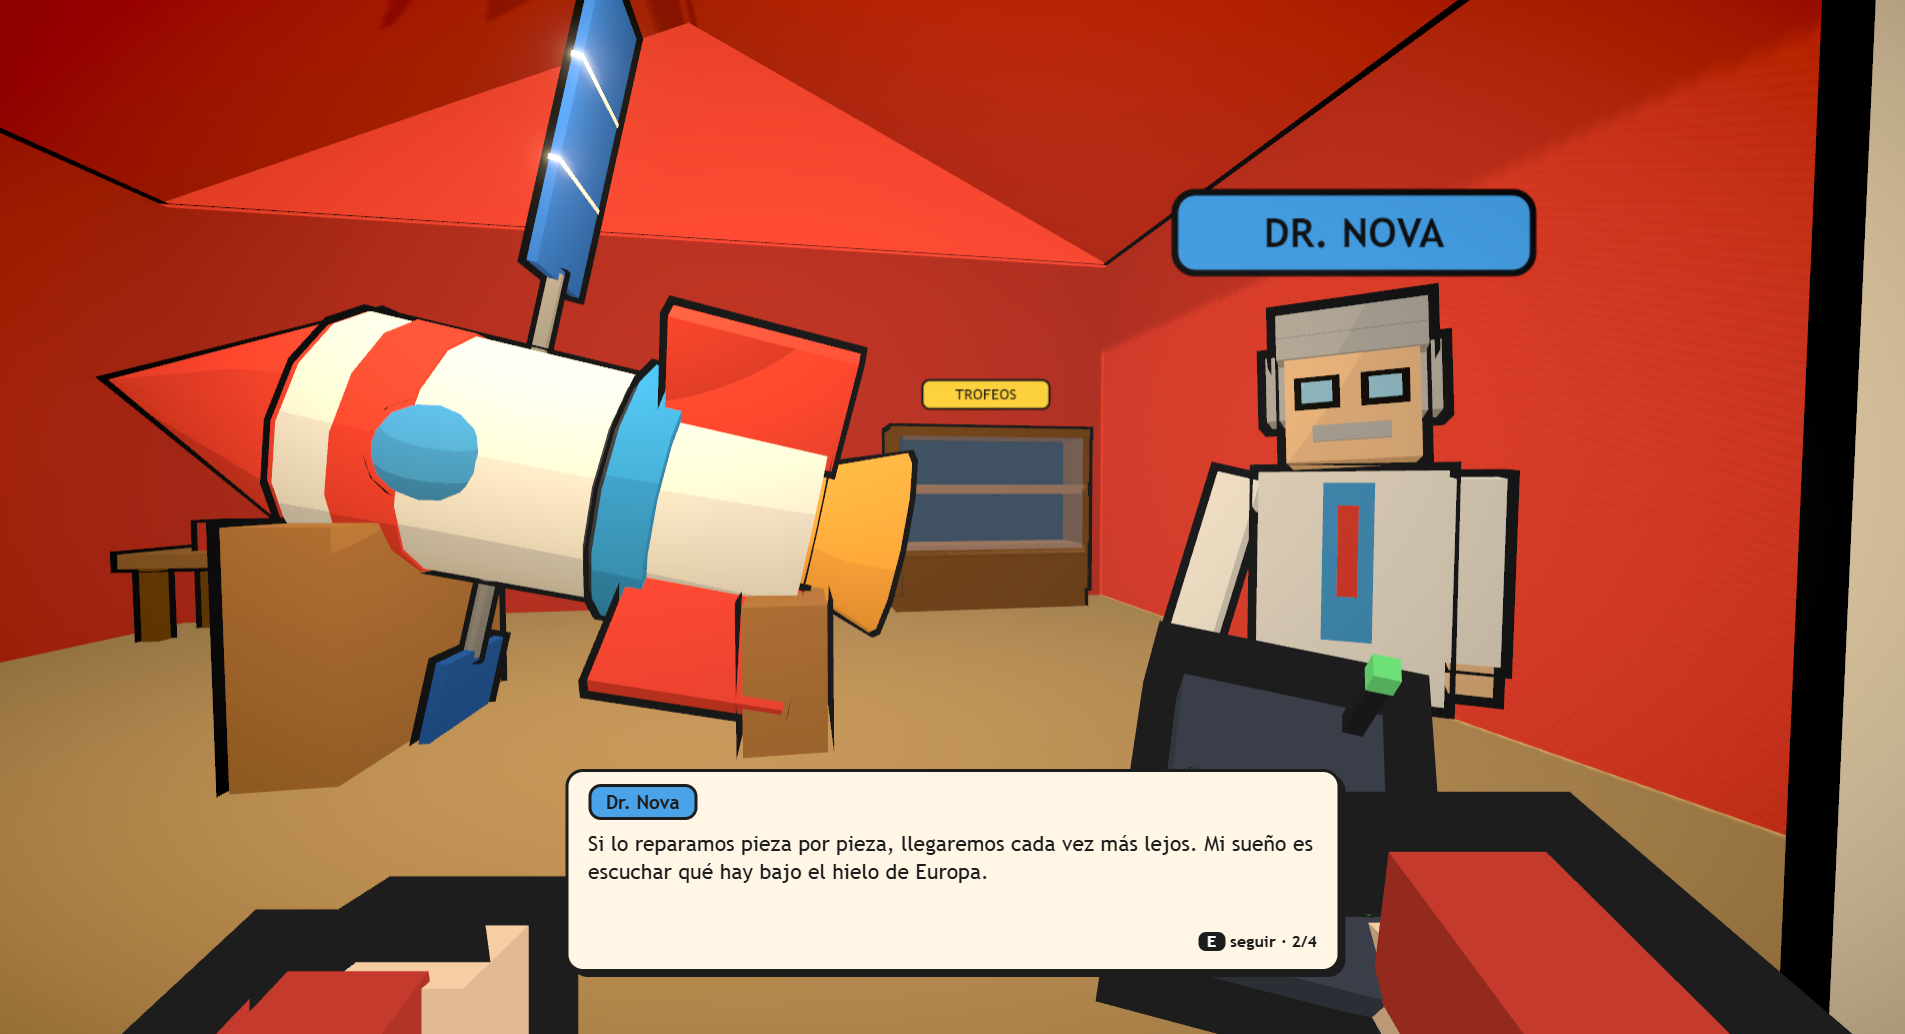
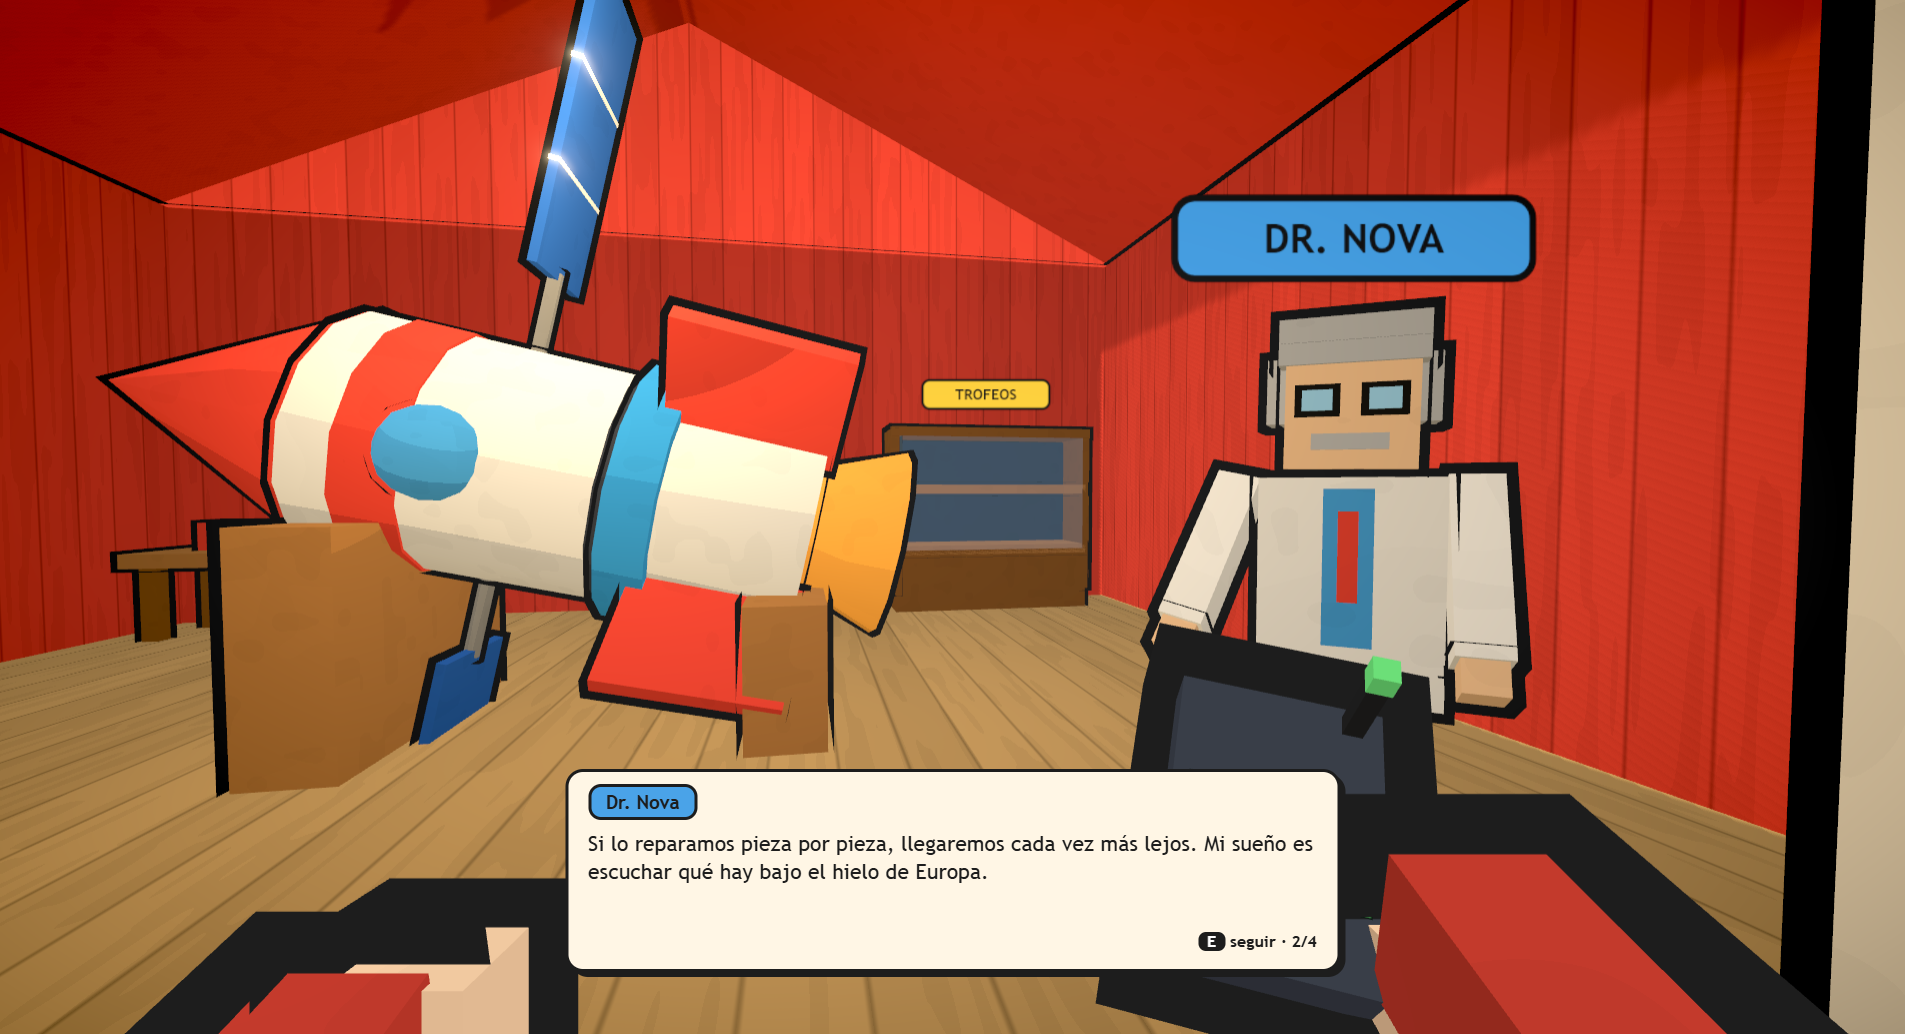
Texturas procedurales en el estilo de la lava
- Textura calculada en la GPU para todos los materiales toon, por bandas:
  general (matices suaves), roca (placas con grietas), suelo de los planetas
  (placas agrietadas y roca en las pendientes), pasto y madera (tablas)
- Placas deformadas como la costra de la lava, no baldosas regulares
- Granero con paredes, frontones y piso de tablas; montañas con roca agrietada

diff --git a/src/estilo.js b/src/estilo.js
@@ -9,8 +9,100 @@ gradiente.needsUpdate = true;
 
 const matContorno = new THREE.MeshBasicMaterial({ color: TINTA, side: THREE.BackSide });
 
-export function toon(color) {
-  return new THREE.MeshToonMaterial({ color, gradientMap: gradiente });
+// ----- Textura procedural, en el mismo estilo que la lava -----
+// Se calcula en la GPU según la posición en el mundo (no hay imágenes): placas con grietas, grano,
+// manchas de tono y todo por bandas, para que encaje con el sombreado toon de 3 tonos.
+// Tipos: general (casi todo), roca, suelo (planetas), pasto (granero), madera.
+const TIPOS = { general: 0, roca: 1, suelo: 2, pasto: 3, madera: 4 };
+const GLSL_TEXTURA = /* glsl */`
+  varying vec3 vPosMundo;
+  varying vec3 vNorMundo;
+  vec2 txH2(vec2 p) { p = vec2(dot(p, vec2(127.1, 311.7)), dot(p, vec2(269.5, 183.3))); return fract(sin(p) * 43758.5453); }
+  float txRuido(vec2 p) {
+    vec2 i = floor(p), f = fract(p), u = f * f * (3.0 - 2.0 * f);
+    return mix(mix(txH2(i).x, txH2(i + vec2(1, 0)).x, u.x), mix(txH2(i + vec2(0, 1)).x, txH2(i + vec2(1, 1)).x, u.x), u.y);
+  }
+  float txFbm(vec2 p) { float v = 0.0, a = 0.5; for (int k = 0; k < 3; k++) { v += a * txRuido(p); p *= 2.07; a *= 0.5; } return v; }
+  // x: distancia al borde de la placa (0 en la grieta) · y: tono propio de cada placa
+  vec2 txPlacas(vec2 p) {
+    vec2 i = floor(p), f = fract(p);
+    float d1 = 8.0, d2 = 8.0, id = 0.0;
+    for (int y = -1; y <= 1; y++) for (int x = -1; x <= 1; x++) {
+      vec2 g = vec2(float(x), float(y)), o = txH2(i + g), r = g + o - f;
+      float d = dot(r, r);
+      if (d < d1) { d2 = d1; d1 = d; id = o.x; } else if (d < d2) d2 = d;
+    }
+    return vec2(sqrt(d2) - sqrt(d1), id);
+  }
+  // Placas deformadas, como la costra de la lava: nada de baldosas regulares
+  vec2 txPlacasW(vec2 p) { return txPlacas(p + (vec2(txFbm(p * 0.45), txFbm(p * 0.45 + 7.3)) - 0.5) * 1.3); }
+  float txBandas(float v, float n) { return floor(v * n + 0.5) / n; }
+  // Roca: placas con grietas oscuras, como la costra de la lava
+  float txRoca(vec2 q, float escala) {
+    vec2 c = txPlacasW(q * escala);
+    float k = 0.84 + 0.26 * txBandas(c.y, 3.0);
+    k *= mix(0.5, 1.0, smoothstep(0.0, 0.08, c.x));
+    k *= 1.0 - 0.14 * step(0.62, txRuido(q * escala * 3.5));
+    return k;
+  }
+  float textura(vec3 p, vec3 n) {
+    vec2 q = abs(n.y) > 0.6 ? p.xz : (abs(n.x) > abs(n.z) ? p.zy : p.xy); // proyección según hacia dónde mira la cara
+    float k = 1.0;
+    #if TX_TIPO == 0
+      k *= 0.97 + 0.05 * txBandas(txFbm(q * 0.9), 3.0);                  // muy suave: solo da algo de vida
+      k *= 1.0 - 0.04 * step(0.72, txRuido(q * 7.0));
+    #elif TX_TIPO == 1
+      k = txRoca(q, 1.6);
+    #elif TX_TIPO == 2
+      vec2 c = txPlacasW(q * 0.42);
+      k *= 0.9 + 0.16 * txBandas(c.y, 3.0);
+      k *= mix(0.68, 1.0, smoothstep(0.0, 0.05, c.x));
+      k *= 1.0 - 0.1 * step(0.64, txRuido(q * 2.6));
+      k *= 0.94 + 0.12 * txBandas(txFbm(q * 0.12), 3.0);
+      k = mix(k, txRoca(q, 0.9), smoothstep(0.82, 0.6, n.y));       // en las pendientes, roca agrietada
+    #elif TX_TIPO == 3
+      k *= 0.92 + 0.15 * txBandas(txFbm(q * 0.22), 4.0);
+      k *= 1.0 - 0.07 * step(0.66, txRuido(q * 3.2));
+      k *= 1.0 + 0.06 * step(0.72, txRuido(q * 2.1 + 7.0));
+      k = mix(k, txRoca(q, 0.7), smoothstep(0.78, 0.55, n.y));      // laderas de roca en las montañas
+    #elif TX_TIPO == 4
+      float tabla = fract(q.x * 2.5);                                   // tablas de unos 40 cm
+      k *= 0.9 + 0.14 * txBandas(txH2(vec2(floor(q.x * 2.5), 3.0)).x, 3.0);
+      k *= mix(0.62, 1.0, smoothstep(0.0, 0.05, tabla) * smoothstep(1.0, 0.95, tabla));
+      k *= 1.0 - 0.08 * step(0.6, txRuido(vec2(q.x * 18.0, q.y * 1.5)));   // vetas
+    #endif
+    return k;
+  }`;
+
+function texturizar(m, tipo) {
+  const n = TIPOS[tipo] ?? 0;
+  m.defines = { ...(m.defines || {}), TX_TIPO: n };
+  m.onBeforeCompile = sh => {
+    sh.vertexShader = "varying vec3 vPosMundo;\nvarying vec3 vNorMundo;\n" + sh.vertexShader.replace("#include <project_vertex>", `#include <project_vertex>
+      vec4 txp = vec4(transformed, 1.0);
+      vec3 txn = objectNormal;
+      #ifdef USE_INSTANCING
+        txp = instanceMatrix * txp;
+        txn = mat3(instanceMatrix) * txn;
+      #endif
+      vPosMundo = (modelMatrix * txp).xyz;
+      vNorMundo = normalize(mat3(modelMatrix) * txn);`);
+    sh.fragmentShader = GLSL_TEXTURA + "\n" + sh.fragmentShader.replace("#include <color_fragment>", `#include <color_fragment>
+      diffuseColor.rgb *= textura(vPosMundo, normalize(vNorMundo));`);
+  };
+  m.customProgramCacheKey = () => "tx" + n;
+  return m;
+}
+
+// tipo: "general" (por defecto), "roca", "suelo", "pasto" o "madera"
+export function toon(color, tipo = "general") {
+  return texturizar(new THREE.MeshToonMaterial({ color, gradientMap: gradiente }), tipo);
+}
+
+// Cambia la textura de una malla (y de sus hijas con material toon), conservando el color
+export function conTextura(obj, tipo) {
+  obj.traverse(o => { if (o.material && o.material.isMeshToonMaterial) o.material = toon(o.material.color.getHex(), tipo); });
+  return obj;
 }
 
 function malla(geo, color, geoContorno) {

diff --git a/src/granero.js b/src/granero.js
@@ -1,6 +1,6 @@
 // Mundo del granero: llanuras, montañas al norte, mesetas al este, un lago y el pueblo.
 import * as THREE from "three";
-import { caja, cilindro, cono, esfera, etiqueta, toon } from "./estilo.js";
+import { caja, cilindro, cono, esfera, etiqueta, toon, conTextura } from "./estilo.js";
 import { crearCohete } from "./cohete.js";
 import { crearCientifico, NOMBRE } from "./cientifico.js";
 import { crearPueblo } from "./pueblo.js";
@@ -67,10 +67,10 @@ export function crearGranero(scene, mejoras) {
   scene.add(sol, sol.target);
 
   // ----- Terreno -----
-  const terreno = crearTerreno({ tam: TAM, seg: 120, altura: alturaBase, color: colorTerreno });
+  const terreno = crearTerreno({ tam: TAM, seg: 120, altura: alturaBase, color: colorTerreno, tipo: "pasto" });
   scene.add(terreno.mesh);
   const altura = terreno.altura;
-  const lejos = new THREE.Mesh(new THREE.CircleGeometry(1800, 24), toon(0x7bc96f)); // suelo hasta el horizonte
+  const lejos = new THREE.Mesh(new THREE.CircleGeometry(1800, 24), toon(0x7bc96f, "pasto")); // suelo hasta el horizonte
   lejos.rotation.x = -Math.PI / 2;
   lejos.position.y = -2.5;
   scene.add(lejos);
@@ -81,13 +81,14 @@ export function crearGranero(scene, mejoras) {
 
   // ----- Granero (12 x 10 m, frente abierto hacia +Z) -----
   const Z0 = -8; // centro del granero
-  poner(caja(12, 0.1, 10, 0xc9a36b, false), 0, 0.05, Z0);          // piso
-  poner(caja(12, 5, 0.3, ROJO), 0, 2.5, Z0 - 5);                    // fondo
-  poner(caja(0.3, 5, 10, ROJO), -6, 2.5, Z0);                       // izquierda
-  poner(caja(0.3, 5, 10, ROJO), 6, 2.5, Z0);                        // derecha
-  poner(caja(3, 5, 0.3, ROJO), -4.5, 2.5, Z0 + 5);                  // frente izq.
-  poner(caja(3, 5, 0.3, ROJO), 4.5, 2.5, Z0 + 5);                   // frente der.
-  poner(caja(6, 1, 0.3, ROJO), 0, 4.5, Z0 + 5);                     // dintel
+  poner(conTextura(caja(12, 0.1, 10, 0xc9a36b, false), "madera"), 0, 0.05, Z0); // piso de tablas
+  const tablas = obj => conTextura(obj, "madera");                  // paredes de tablas de madera
+  poner(tablas(caja(12, 5, 0.3, ROJO)), 0, 2.5, Z0 - 5);            // fondo
+  poner(tablas(caja(0.3, 5, 10, ROJO)), -6, 2.5, Z0);               // izquierda
+  poner(tablas(caja(0.3, 5, 10, ROJO)), 6, 2.5, Z0);                // derecha
+  poner(tablas(caja(3, 5, 0.3, ROJO)), -4.5, 2.5, Z0 + 5);          // frente izq.
+  poner(tablas(caja(3, 5, 0.3, ROJO)), 4.5, 2.5, Z0 + 5);           // frente der.
+  poner(tablas(caja(6, 1, 0.3, ROJO)), 0, 4.5, Z0 + 5);             // dintel
   col(0, Z0 - 5, 12, 0.3); col(-6, Z0, 0.3, 10); col(6, Z0, 0.3, 10);
   col(-4.5, Z0 + 5, 3, 0.3); col(4.5, Z0 + 5, 3, 0.3);
 
@@ -104,7 +105,7 @@ export function crearGranero(scene, mejoras) {
   tri.moveTo(-6, 0); tri.lineTo(6, 0); tri.lineTo(0, 2.85); tri.closePath();
   const geoTri = new THREE.ExtrudeGeometry(tri, { depth: 0.3, bevelEnabled: false });
   [Z0 + 4.85, Z0 - 5.15].forEach(z => {
-    const h = new THREE.Mesh(geoTri, toon(ROJO));
+    const h = new THREE.Mesh(geoTri, toon(ROJO, "madera"));
     h.castShadow = true;
     poner(h, 0, 5, z);
   });

diff --git a/src/superficie.js b/src/superficie.js
@@ -79,7 +79,7 @@ function crearRoca(s, color, azar) {
     p.setXYZ(i, p.getX(i) * f, Math.max(-0.35, p.getY(i)) * f * 0.75, p.getZ(i) * f);
   }
   geo.computeVertexNormals();
-  if (!matRocas.has(color)) { const m = toon(color); m.flatShading = true; matRocas.set(color, m); }
+  if (!matRocas.has(color)) { const m = toon(color, "roca"); m.flatShading = true; matRocas.set(color, m); }
   const roca = new THREE.Mesh(geo, matRocas.get(color));
   roca.castShadow = roca.receiveShadow = true;
   const borde = new THREE.Mesh(geo, matBorde);
@@ -193,7 +193,7 @@ export function crearSuperficie() {
     });
     mundo.add(terreno.mesh);
     altura = terreno.altura;
-    const lejos = new THREE.Mesh(new THREE.CircleGeometry(1600, 24), toon(cs[1]));
+    const lejos = new THREE.Mesh(new THREE.CircleGeometry(1600, 24), toon(cs[1], "suelo"));
     lejos.rotation.x = -Math.PI / 2;
     lejos.position.y = -3;
     mundo.add(lejos);
@@ -217,7 +217,7 @@ export function crearSuperficie() {
 
     // ----- Guijarros: cientos de piedras pequeñas en una sola llamada de dibujo -----
     {
-      const n = 420, mat = toon(bioma.roca);
+      const n = 420, mat = toon(bioma.roca, "roca");
       mat.flatShading = true;
       const piedras = new THREE.InstancedMesh(new THREE.IcosahedronGeometry(1, 0), mat, n);
       const o = new THREE.Object3D(), c = new THREE.Color();

diff --git a/src/terreno.js b/src/terreno.js
@@ -3,7 +3,7 @@ import * as THREE from "three";
 import { toon } from "./estilo.js";
 
 // altura(x, z) -> metros.  color(x, z, h, pendiente, c) escribe el color de la cara en `c`.
-export function crearTerreno({ tam, seg, altura, color }) {
+export function crearTerreno({ tam, seg, altura, color, tipo = "suelo" }) {
   const n = seg + 1, celda = tam / seg, mitad = tam / 2;
   const H = new Float32Array(n * n);
   for (let iz = 0; iz < n; iz++)
@@ -29,7 +29,7 @@ export function crearTerreno({ tam, seg, altura, color }) {
   geo.setAttribute("position", new THREE.BufferAttribute(pos, 3));
   geo.setAttribute("color", new THREE.BufferAttribute(col, 3));
   geo.computeVertexNormals();
-  const mat = toon(0xffffff);
+  const mat = toon(0xffffff, tipo);
   mat.vertexColors = true;
   const mesh = new THREE.Mesh(geo, mat);
   mesh.receiveShadow = true;

diff --git a/src/lava.js b/src/lava.js
@@ -192,7 +192,7 @@ export function crearLava(dest, x, z, radio, altura, azar) {
   superficie.frustumCulled = false; // el relieve se calcula en la GPU: la caja de la malla no lo incluye
   grupo.add(superficie);
 
-  const roca = toon(pal.roca);
+  const roca = toon(pal.roca, "roca");
   roca.flatShading = true;
   const reborde = new THREE.Mesh(geometriaReborde(x, z, radio, altura, forma), roca);
   reborde.receiveShadow = true;

diff --git a/README.md b/README.md
@@ -131,6 +131,7 @@ Los datos de los planetas están en [`src/datos.js`](src/datos.js). Son conocimi
 - **[Electron](https://www.electronjs.org/)** para la app de escritorio de Windows.
 - **Todo se genera con código:** modelos 3D, terrenos, texturas de planetas, sonidos y música (una pieza distinta para el granero, el espacio y cada planeta). El juego no usa archivos externos de arte ni audio.
 - **Cielos y paisajes:** cielo con degradado y halo alrededor del Sol (azulado en Marte, donde los atardeceres son azules), montañas en el horizonte, rocas low-poly con contorno y cientos de guijarros dibujados de una sola vez (instancias).
+- **Texturas procedurales en el estilo de la lava:** el suelo de cada planeta tiene placas agrietadas con manchas de tono, las rocas y las laderas tienen costra con grietas, el granero tiene tablas de madera y el pasto tiene matices. Todo se calcula en la GPU (sin imágenes) y por bandas de color, para encajar con el sombreado toon.
 - **Lava creíble en estilo toon:** relieve en 3D (placas de costra levantadas con luz y sombra por facetas, grietas y lava fundida hundidas, bloques de costra flotando), placas que derivan despacio, grietas encendidas, zonas fundidas, una orilla que brilla (como el lago de lava Loki, en Ío), reborde de roca y brasas que suben. Cada lugar tiene su paleta: lava naranja en Venus, casi amarilla de tan caliente en Ío y roca al rojo vivo en Mercurio.
 - **HUD ordenado en los planetas:** arriba, dónde estás y qué llevas; abajo a la izquierda, un panel con oxígeno, traje y energía. La ayuda de controles se desvanece sola.
 - **Postprocesado:** antialiasing MSAA, resplandor (bloom) ajustado a cada escena, para que brillen la lava, los cristales y las llamas, y un viñeteado suave. Se activa con la calidad gráfica alta.
